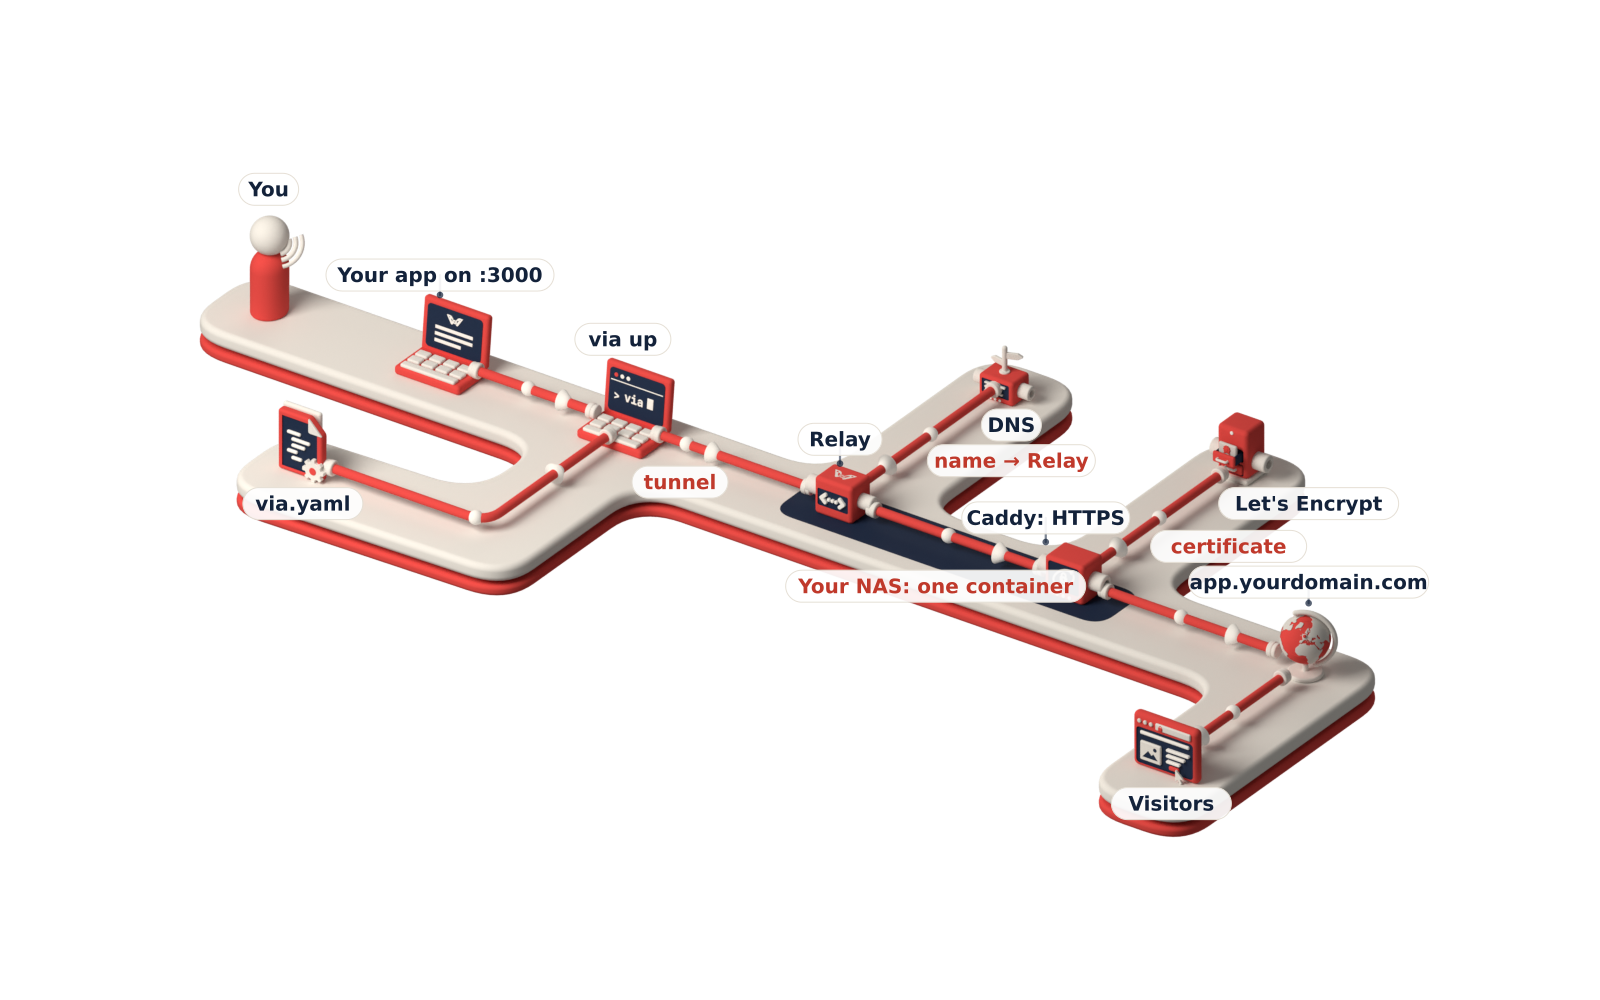
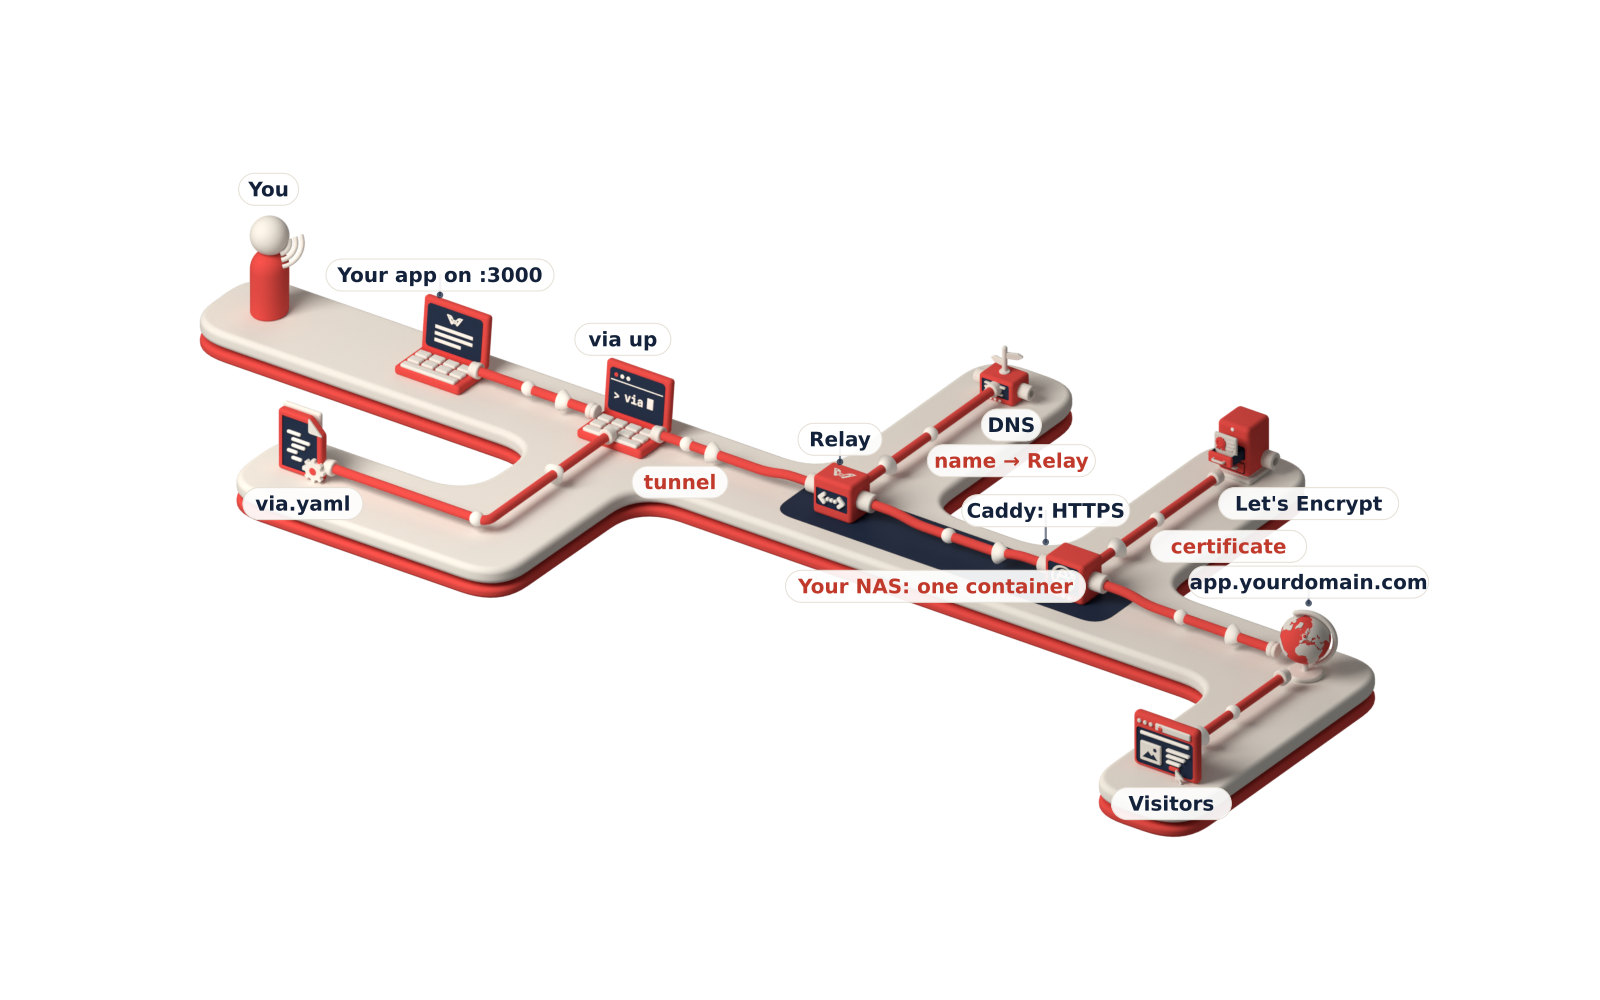
Setup: system requirements, Dockerfile (Blender 5.3, Bun, just, ffmpeg, fonts; tested end to end), scripts/setup-linux.sh; brand page reference; HUMAN-DIRECTION.md; diagram connections into the ports

diff --git a/scripts/icons/blender/diagram.py b/scripts/icons/blender/diagram.py
@@ -68,7 +68,7 @@ def socket_for(node, end, out):
     if flat.length < 1e-6 or abs(flat.normalized().dot(axis)) > 0.5:
         return None  # the pipe runs along the device's own ports: those already take it
     k = node.get("scale", 1.0)
-    c = B["cyl"](PIPE_R * 1.7 * k, 0.22 * k, tuple(end - out * 0.05), "s", 0.04, verts=48)
+    c = B["cyl"](PIPE_R * 1.8 * k, 0.26 * k, tuple(end + out * 0.08 * k), "s", 0.04, verts=48)
     c.rotation_euler = out.to_track_quat("Z", "Y").to_euler()
     return c
 # Layout frame: "iso" (default) runs columns along world +X (down-right on screen) and rows along
@@ -241,9 +241,11 @@ def waves(at, d, role="c", z=1.15, radii=(0.22, 0.38, 0.54), clear=None):
         B["tube"](arc, 0.05 - i * 0.006, role)
 
 
-def collars(pts, inset, r):
-    """A cream socket ring where the pipe meets each node's surface."""
-    for p, q in ((pts[0], pts[1]), (pts[-1], pts[-2])):
+def collars(pts, inset, r, skip=(False, False)):
+    """A cream socket ring where the pipe meets each node's surface (not at a device: its port is the ring)."""
+    for (p, q), bare in zip(((pts[0], pts[1]), (pts[-1], pts[-2])), skip):
+        if bare:
+            continue
         d = (q - p).normalized()
         c = B["cyl"](r * 1.7, 0.12, tuple(p + d * (inset + 0.04)), "s", 0.03, verts=48)
         c.rotation_euler = d.to_track_quat("Z", "Y").to_euler()
@@ -251,7 +253,7 @@ def collars(pts, inset, r):
 
 def pipe(ext_a, ext_b, centre_a, centre_b, cable=False, speech=False, wireless=False, height=1.4,
          target_height=1.0, body=1.0, offset=1.0, packet=0.45, arrow=0.78, route=None, nwaves=2,
-         hub_a=False, hub_b=False, wave_at=0.42):
+         hub_a=False, hub_b=False, wave_at=0.42, bare_a=False, bare_b=False, port_a=None, port_b=None):
     """Route a pipe between two nodes on the screen-aligned grid."""
     ua, wa = centre_a.dot(U), centre_a.dot(V)
     ub, wb = centre_b.dot(U), centre_b.dot(V)
@@ -304,11 +306,32 @@ def pipe(ext_a, ext_b, centre_a, centre_b, cable=False, speech=False, wireless=F
         cone.rotation_euler = d.to_track_quat("Z", "Y").to_euler()
         B["finish"](cone, "s")
         return pts
-    pts = fillet(pts)
+    # a pipe running along a device's own ports enters the port at the port's height: the last stretch
+    # ramps from the pipe height to it (owner: "perfect the connection logic"); port_* = (axis, z)
+    def ramp(pts, port):
+        if port is None or len(pts) < 2:
+            return pts
+        axis, z = port
+        d = pts[1] - pts[0]
+        flat = Vector((d.x, d.y, 0))
+        if flat.length < 1e-6 or abs(flat.normalized().dot(axis)) < 0.5 or abs(z - PIPE_Z) < 0.02:
+            return pts
+        run = min(0.55, flat.length * 0.45)
+        p0 = pts[0].copy(); p0.z = z
+        mid = pts[0] + flat.normalized() * run
+        p1 = mid.copy(); p1.z = z
+        p2 = pts[0] + flat.normalized() * (run * 1.8); p2.z = PIPE_Z
+        return [p0, p1, p2] + pts[1:]
+    pts = ramp(pts, port_a)
+    pts = list(reversed(ramp(list(reversed(pts)), port_b)))
+    pts = fillet(pts, rad=0.22)
     B["tube"]([tuple(p) for p in pts], PIPE_R, "p")
-    ends = [e for e, hub in (((pts[0], pts[1] - pts[0]), hub_a), ((pts[-1], pts[-2] - pts[-1]), hub_b)) if not hub]
+    # owner 2026-11-13 "perfect the connection logic": a pipe into a device ends IN its port (or the socket the
+    # diagram adds), so no extra collar or cuff at that end; other ends keep their cream ring
+    ends = [e for e, hub, bare in (((pts[0], pts[1] - pts[0]), hub_a, bare_a), ((pts[-1], pts[-2] - pts[-1]), hub_b, bare_b))
+            if not hub and not bare]
     if not (hub_a or hub_b):
-        collars(pts, 0.05, PIPE_R)
+        collars(pts, 0.05, PIPE_R, skip=(bare_a, bare_b))
     for p, d in ends:  # collars at the ports (none into a junction: agy r6, they clipped the tee)
         c = B["cyl"](PIPE_R * 1.6, 0.1, tuple(p), "s", 0.03)
         c.rotation_euler = d.to_track_quat("Z", "Y").to_euler()
@@ -674,6 +697,20 @@ def main():
         centres[n["id"]] = Vector(((lo.x + hi.x) / 2, (lo.y + hi.y) / 2, 0))
     everything = [o for objs in nodes.values() for o in objs]
     heights = {k: bounds(v)[1].z for k, v in nodes.items()}
+    ports = {}  # device id -> (port axis, port centre z): the outermost parts along the model's own X
+    for n in spec["nodes"]:
+        if n.get("icon") not in DEVICE_PORTS:
+            continue
+        turn = math.radians(n.get("turn", NODE_TURN.get(n.get("icon", ""), 0)))
+        axis = Vector((math.cos(turn), math.sin(turn), 0))
+        meshes = [o for o in renderable(nodes[n["id"]]) if o.type == "MESH"]
+        if not meshes:
+            continue
+        def reach(o):
+            return max(abs((o.matrix_world @ Vector(c) - centres[n["id"]]).dot(axis)) for c in o.bound_box)
+        far = max(meshes, key=reach)
+        lo, hi = bounds([far])
+        ports[n["id"]] = (axis, (lo.z + hi.z) / 2)
     if scene:  # every person in a scene faces the recorder (agy r8), speakers or not
         rec = next((n["id"] for n in spec["nodes"] if n.get("icon") == "record"), None)
         talk = {e[0] for e in spec.get("edges", []) if len(e) > 2 and e[2].get("style") == "speech"}
@@ -704,7 +741,10 @@ def main():
                    body=spec_by_id[a].get("scale", 1.0), offset=meta.get("offset", 1.0),
                    packet=meta.get("packet", 0.45), arrow=meta.get("arrow", 0.78), route=meta.get("route"),
                    nwaves=meta.get("waves", 2), hub_a=bool(spec_by_id[a].get("hub")), hub_b=bool(spec_by_id[b].get("hub")),
-                   wave_at=meta.get("waveAt", 0.42))
+                   wave_at=meta.get("waveAt", 0.42),
+                   bare_a=not scene and spec_by_id[a].get("icon") in DEVICE_PORTS,
+                   bare_b=not scene and spec_by_id[b].get("icon") in DEVICE_PORTS,
+                   port_a=None if scene else ports.get(a), port_b=None if scene else ports.get(b))
         if not scene and len(pts) > 1:  # sockets where a pipe meets a device from a portless side
             socket_for(spec_by_id[a], pts[0], (pts[1] - pts[0]).normalized())
             socket_for(spec_by_id[b], pts[-1], (pts[-2] - pts[-1]).normalized())

diff --git a/docs/HUMAN-DIRECTION.md b/docs/HUMAN-DIRECTION.md
@@ -1,0 +1,84 @@
+# The human in the loop
+
+This set was made by Kelvin Wuite together with AI agents. The agents wrote most of the code, modelled the
+icons in Blender and checked every render by looking at it. But the **ideas, the taste and the decisions** came
+from Kelvin. This page lists them, in the order they happened, so it is clear which parts are human.
+
+Quotes are Kelvin's own words from the working sessions, translated from Dutch where needed.
+
+## 1. The foundation
+
+- **The generator.** Kelvin designed the icon generator in 2025 at ASD Engineering for the ASD Manager. He
+  first used OpenAI, and moved the code to OpenRouter after OpenAI blocked his access. Everything here
+  starts from that code.
+- **The ambition.** "Keep validating with vision, and make sure we build a high-quality 3D, 2.5D and 2D icon
+  library." This made the set a library, not a handful of pictures.
+- **Own models, not pictures.** He noticed that many icons were still plain AI images and not built from
+  our own models. That pushed the whole 2.5D set into Blender, where every icon is a real model.
+
+## 2. The house style came from his eye
+
+- **"The icon is the object."** Looking at a Wi-Fi icon sitting on a square tile, he said the icon itself
+  should be the object, not a picture on a tile. He picked `sync` as the approved reference. This became
+  the main rule of the set.
+- **Faces, not surfaces.** Speech waves should come from the face of a person, not from some upper surface.
+- **Platform marks with character.** He asked for GitHub, Windows, Mac, Linux, Android and iOS "in our own
+  design", with the ASD Manager icons as the bar.
+- **Docker, his idea.** "Write VIA on top and LINK in the containers below, one letter per container."
+- **Colour vigilance.** He noticed when the brand red looked orange. Twice this led to a real problem: a
+  screen-mode question, and later a film encoding bug (BT.601 without colour tags) that turned red into
+  orange in every video.
+- **2D matches 2.5D.** He chose sand as the flat secondary colour, so the flat twins match the cream parts
+  of the 2.5D icons, with navy and red as accents.
+- **Raspberry Pi with navy leaves** (picked from three options). Also more navy in the set, for example a
+  globe caught in the `webhook` hook.
+
+## 3. What to make, and what not
+
+- **Missing icons.** He named the gaps: NAS, Raspberry Pi, router, modem, Caddy, Let's Encrypt, DNS. Then:
+  "keep looking, there are more things", and finally: make the set complete enough for real IT
+  architecture diagrams.
+- **Rejecting what does not fit.** The realistic apple fruit, a GitHub flat that "looks like a monster",
+  and a Caddy sculpture that "looked odd and not fitting when used as an example in our project". Each
+  rejection became a better icon.
+- **The concept workflow.** "Can we make a few suggestions so I can approve one?" From this came the method:
+  ideas in text, then AI sketches in our style, then he picks one, then it is built in Blender.
+- **One device family.** "Ports for all": every network device keeps its own shape but gets the same pipe
+  ports. Then the final call on how many ports: two on the icon, with extra sockets added in diagrams where
+  a pipe needs them.
+- **Real use cases.** "If os-ios is a phone with the logo, do the same for the rest": Android on the phone,
+  Linux, Windows and macOS on a desktop screen.
+- **Caddy's own mark.** He found Caddy's official logo and asked to put it on "the default block we use".
+
+## 4. From icons to a system
+
+- **Diagrams that explain the company.** Flow diagrams of Viaalink now and in the future ("every Viaalink
+  app will be able to talk to the next"). A router feeding three NATS-linked Relays for zero downtime. The
+  CLI as a web publisher, with Caddy inside the Relay on a NAS.
+- **Animation.** He asked for the Blender objects to become animations for the product films, and was not
+  happy with a drifting camera. That led to story animations: things appear, pipes connect, a Relay fails
+  and the rest keeps serving.
+- **Publishing.** A Mermaid icon set and draw.io/Visio stencils: "we're not there yet". Without that, the
+  set would not be usable outside the website.
+
+## 5. Strategy and openness
+
+- **Open source, with boundaries.** Icons, pipeline and process in the open; the Viaalink mark and
+  third-party marks protected; the film engine and voice kept private.
+- **Show that we host it, keep the rest private.** The gallery's `via.yaml` shows how Viaalink hosts its own
+  tools, without any infrastructure details.
+- **A submodule, like the ASD Manager.** The website takes the icons from this repo.
+- **A community page.** An iconography page on viaalink.com built from the latest release, with downloads
+  from Mermaid to Blender, and votes, comments and icon requests from signed-in users.
+- **Review before public.** Nothing went public before he had read the code.
+
+## Who did what
+
+| Kelvin (human) | The AI agents |
+|---|---|
+| The original generator and its move to OpenRouter | The Blender pipeline, flat twins, gate, pack, diagrams, animations |
+| The vision: a complete, consistent library in Viaalink's style | Modelling every icon from his descriptions and picks |
+| The house rules: the icon is the object, one device family, 2D matches 2.5D | Rules written down (docs/skill) and enforced in every task |
+| Every approval and rejection, every pick between concepts | Concept sketches, renders, contact sheets, vision QA |
+| What the set must cover, and why | Gap lists and expert reviews, offered as input for his decisions |
+| Publishing, licensing and community strategy | Packaging, docs, the repo and the release |

diff --git a/README.md b/README.md
@@ -56,24 +56,61 @@ Icons: `ai-a` · `api` · `backup` · `bell` · `browser-ext` · `browser` · `b
 
 ## Make them yourself
 
-Requirements: [Blender](https://www.blender.org) 4.x or 5.x, [Bun](https://bun.sh), [just](https://just.systems), ffmpeg,
-and the fonts DejaVu Sans Bold and JetBrains Mono Bold (`VIA_ICON_FONT` points to the latter if it is not in
-`~/.local/share/fonts`).
+### System requirements
+
+| | Minimum | Used to make this set |
+|---|---|---|
+| OS | Linux x64 (Ubuntu/Debian 24.04+); macOS and Windows via Docker | Ubuntu 24.04 |
+| Blender | 4.2 LTS or newer, headless | 5.3 |
+| Bun | 1.1+ | 1.4 |
+| just, ffmpeg, zip | any recent | just 1.46, ffmpeg 6.1 |
+| Fonts (render only, see [Brand](#brand)) | DejaVu Sans Bold, JetBrains Mono Bold (OFL) | |
+| GPU | optional: NVIDIA (OptiX/CUDA). Without one Blender renders on the CPU: same result, slower | RTX 5070 Ti |
+| Disk / RAM | ~2 GB for the tools, 8 GB RAM | |
+
+### Setup
+
+**Docker (any OS):**
 
 ```sh
-bun install
+docker build -t viaalink-icons .
+docker run --rm -v "$PWD":/work --user "$(id -u):$(id -g)" -e HOME=/tmp viaalink-icons \
+  just icons-blender local/icons/rounds/25d-b7 --samples 48 relay
+# NVIDIA GPU: add --gpus all. The first run installs the Bun dependencies into the repo (node_modules).
+```
+
+**Linux, without Docker:** `scripts/setup-linux.sh` installs ffmpeg, just and the fonts via apt, Blender from
+blender.org into `~/.local/opt`, Bun, and runs `bun install`.
+
+**By hand:** install the tools in the table, put JetBrains Mono Bold in `~/.local/share/fonts` (or point
+`VIA_ICON_FONT` at it), then `bun install`.
+
+### Run
+
+```sh
 just icons-blender local/icons/rounds/25d-b7 --samples 48   # every 2.5D icon, light + dark (or name a few: ... relay lock)
 just icons-flat local/icons/rounds/flat-r9                   # the flat twins
 just icons-blender-gate                                      # no clipped white, both editions, nothing cropped
 just icons-pack                                              # SVG/PNG/Mermaid/draw.io → local/icons/pack
 just icons-diagram relay-ha                                  # a flow diagram (scripts/icons/blender/diagrams/relay-ha.json)
 just icons-story relay-ha                                    # its story animation: nodes pop in, pipes draw, a Relay fails
+just icons-gallery                                           # the gallery on http://127.0.0.1:5330 (needs the via CLI)
 ```
+
+AI concept sketches (`just icons-render`) need an `OPENROUTER_API_KEY` in your environment. The rest runs
+offline.
 
 ![story](docs/examples/relay-ha-story.gif)
 
 How the set was made, with AI agents as executor and art director: [docs/HOW-WE-MADE-IT.md](docs/HOW-WE-MADE-IT.md).
+Which ideas, choices and rejections came from the human: [docs/HUMAN-DIRECTION.md](docs/HUMAN-DIRECTION.md).
 The working rules the agents follow: [docs/skill/SKILL.md](docs/skill/SKILL.md); real task files: [docs/tasks](docs/tasks).
+
+## Brand
+
+Colours, typography (Space Grotesk, IBM Plex Mono) and logo use: **[viaalink.com/brand](https://viaalink.com/brand)**.
+The icon palette follows it: Viaalink Red `#F73F3F`, navy, paper `#F6F3EE`. The fonts in the requirements table
+are only what the renderer needs for the few letters inside icons (the `> via` prompt, the Docker containers).
 
 ## Licence
 

diff --git a/docs/HOW-WE-MADE-IT.md b/docs/HOW-WE-MADE-IT.md
@@ -9,7 +9,8 @@ depends on a single provider.
 
 In November 2026 that code became the starting point for Viaalink's own set. Kelvin set the direction and
 approved every icon. AI agents did the work with him: one as product owner and QA, one building in Blender,
-and independent reviewers who judged the results by looking at them.
+and independent reviewers who judged the results by looking at them. What came from Kelvin, decision by
+decision, is in [HUMAN-DIRECTION.md](HUMAN-DIRECTION.md).
 
 ## 1. From AI pictures to Blender
 
